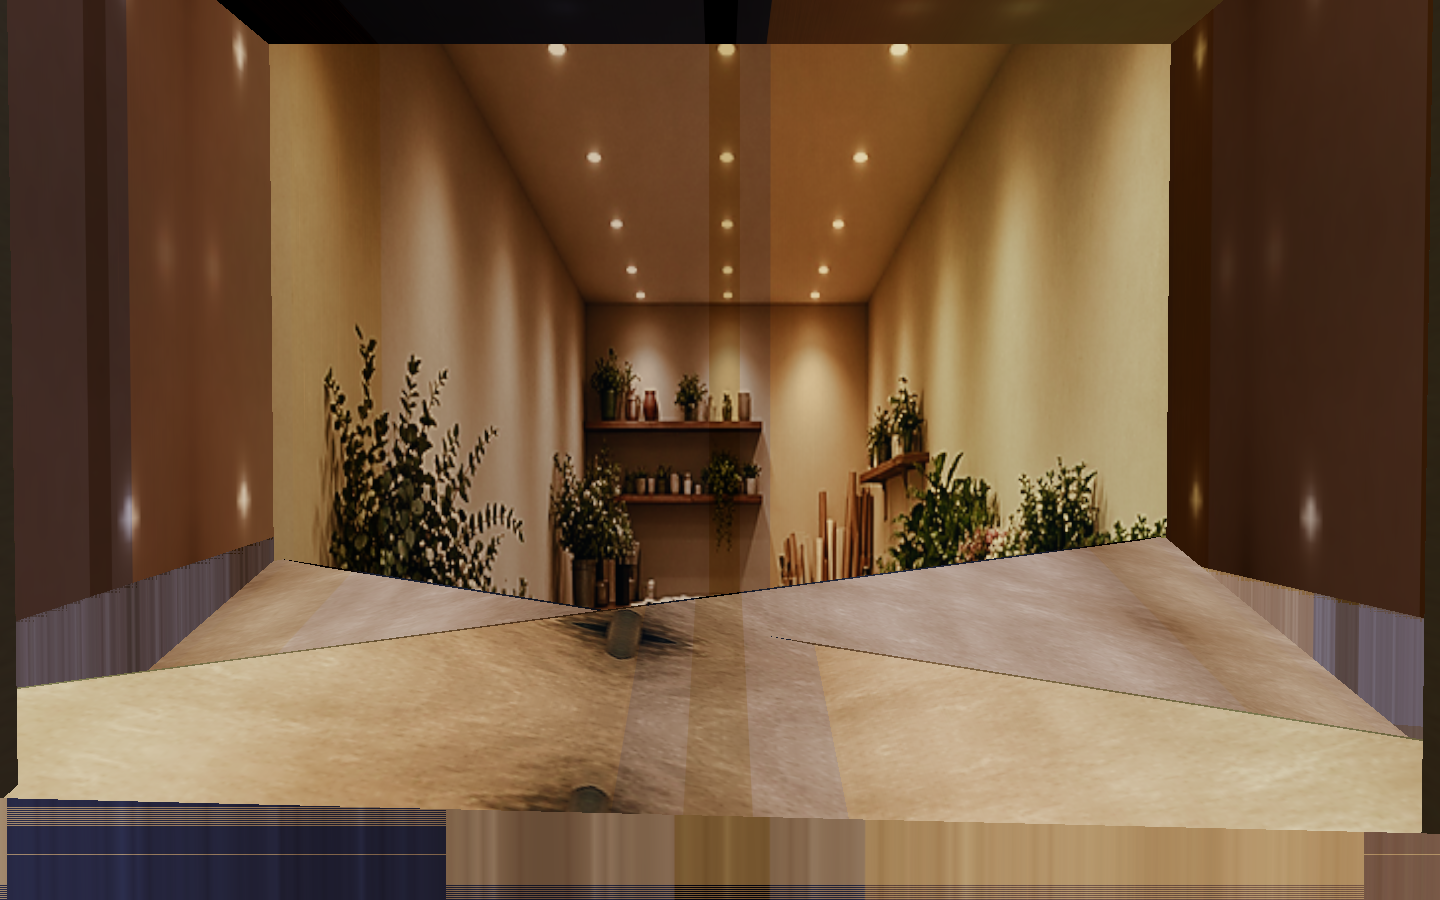
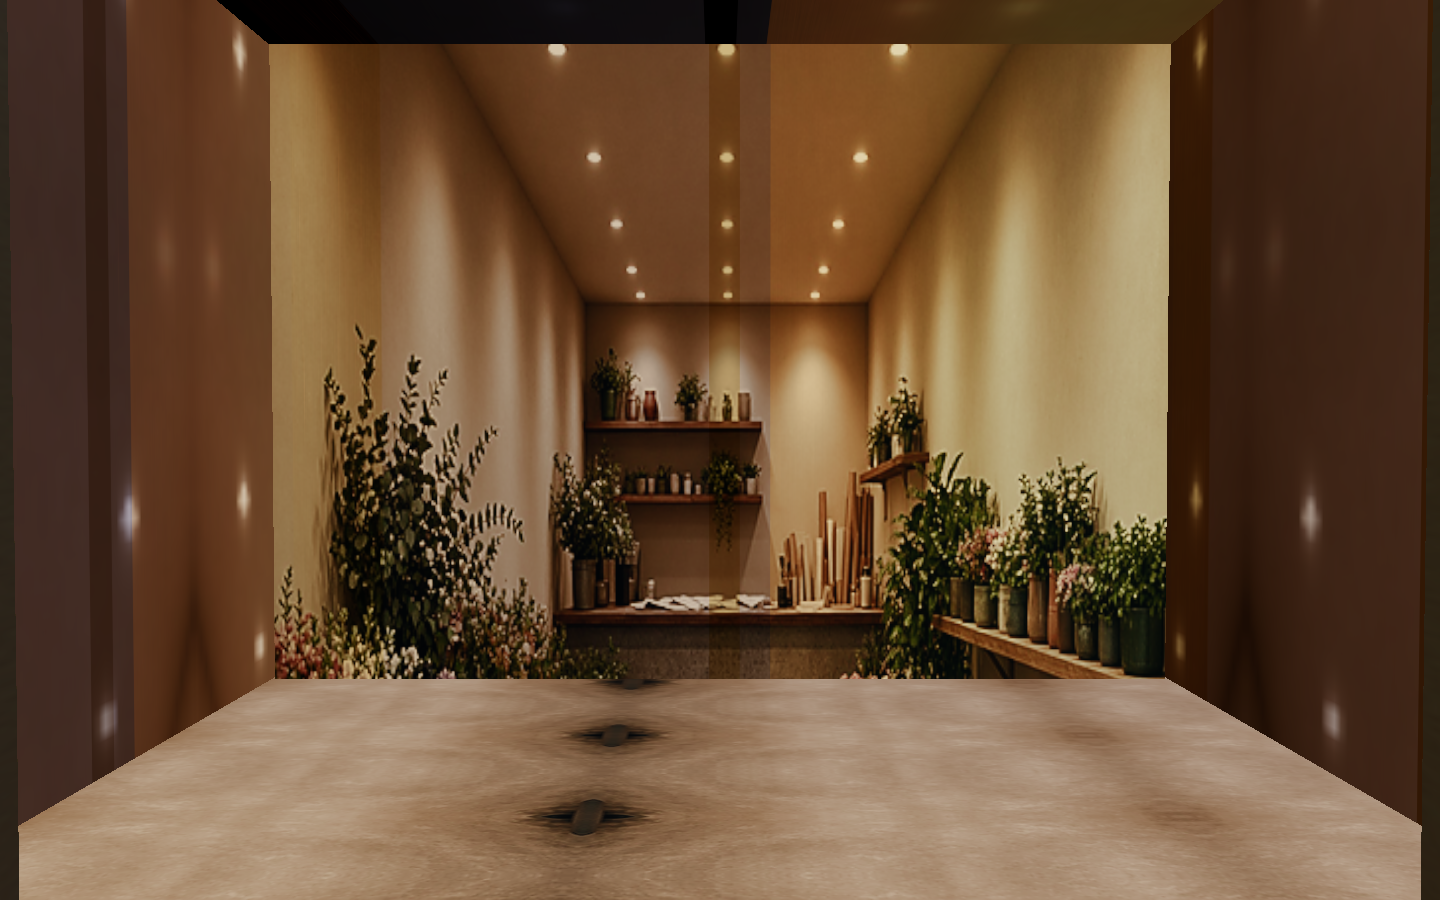
Cover the shop sill with one atlas floor quad.
The lot pad tread is y=0.085, so the earlier lift to 0.075 left sidewalk triangles z-fighting the tan floor. A single quad at y=0.11 now covers the cell through the façade.

Changed region(s): [[0.0, 0.5911, 1.0, 1.0]]

diff --git a/harbor.html b/harbor.html
@@ -2401,59 +2401,51 @@ function shopFenestraCell(halfAlong) {
   }
   return best;
 }
-// AtlasFloor is one glTF primitive. Its top sits on local y=0, which the
-// opening fit places under the promenade. Slide that primitive up and pull
-// its street edge out to the façade plane.
-function liftAtlasFloor(root, worldY, facadeLocalZ) {
-  root.updateMatrixWorld(true);
-  const s = root.scale.x || 1;
+// The baked floor box sits under the lot pad. A partial lift left the pad
+// (top y=0.085) on top of it, so the pad's two big triangles z-fought the
+// tan floor into a butterfly at the sill. Hide that box and lay one quad
+// of the same atlas floor above every outdoor tread, out to the façade.
+function seatShopFloor(root, worldX, faceZ, floorY, roomW, roomD, s) {
+  let src = null;
   root.traverse((obj) => {
-    if (!obj.isMesh || !obj.geometry) return;
+    if (!obj.isMesh) return;
     const mats = Array.isArray(obj.material) ? obj.material : [obj.material];
-    const geo = obj.geometry;
-    const pos = geo.getAttribute('position');
-    if (!pos) return;
-    const index = geo.getIndex();
-    const groups = geo.groups && geo.groups.length
-      ? geo.groups
-      : [{ start: 0, count: index ? index.count : pos.count, materialIndex: 0 }];
-    const ids = [];
-    for (const g of groups) {
-      const mat = mats[g.materialIndex] || mats[0];
-      if (!mat || mat.name !== 'AtlasFloor') continue;
-      const end = g.start + g.count;
-      if (index) {
-        for (let i = g.start; i < end; i++) ids.push(index.getX(i));
-      } else {
-        for (let i = g.start; i < end; i++) ids.push(i);
-      }
-    }
-    if (!ids.length) return;
-    let maxY = -1e9;
-    let maxZ = -1e9;
-    for (let k = 0; k < ids.length; k++) {
-      maxY = Math.max(maxY, pos.getY(ids[k]));
-      maxZ = Math.max(maxZ, pos.getZ(ids[k]));
-    }
-    const delta = (worldY - root.position.y) / s - maxY;
-    const lip = facadeLocalZ + 0.01;
-    for (let k = 0; k < ids.length; k++) {
-      const i = ids[k];
-      pos.setY(i, pos.getY(i) + delta);
-      if (pos.getZ(i) > maxZ - 0.025) pos.setZ(i, Math.max(pos.getZ(i), lip));
-    }
-    pos.needsUpdate = true;
-    geo.computeVertexNormals();
-    if (geo.boundingSphere) geo.computeBoundingSphere();
-    if (geo.boundingBox) geo.computeBoundingBox();
-    obj.frustumCulled = false;
-    mats.forEach((mat) => {
-      if (!mat || mat.name !== 'AtlasFloor') return;
-      mat.polygonOffset = true;
-      mat.polygonOffsetFactor = -2;
-      mat.polygonOffsetUnits = -2;
-    });
+    const hit = mats.find((m) => m && m.name === 'AtlasFloor');
+    if (!hit) return;
+    src = hit;
+    obj.visible = false;
   });
+  if (!src) return null;
+  const mat = src.clone();
+  mat.name = 'AtlasFloorCover';
+  mat.lightMap = null;
+  mat.aoMap = null;
+  mat.polygonOffset = true;
+  mat.polygonOffsetFactor = -4;
+  mat.polygonOffsetUnits = -4;
+  mat.depthWrite = true;
+  mat.side = THREE.DoubleSide;
+  const w = roomW * s + 0.08;
+  const d = roomD * s + 0.12;
+  const geo = new THREE.PlaneGeometry(w, d);
+  geo.rotateX(-Math.PI / 2);
+  const uv = geo.attributes.uv;
+  const tileU = 1.05 * s;
+  const tileV = 0.27 * s;
+  for (let i = 0; i < uv.count; i++) {
+    uv.setXY(i, (uv.getX(i) * w) / tileU, (uv.getY(i) * d) / tileV);
+  }
+  uv.needsUpdate = true;
+  const mesh = new THREE.Mesh(geo, mat);
+  mesh.name = 'AtlasFloorCover';
+  mesh.frustumCulled = false;
+  mesh.renderOrder = 4;
+  mesh.position.set(worldX, floorY, 0);
+  mesh.updateMatrixWorld(true);
+  const span = new THREE.Box3().setFromObject(mesh);
+  mesh.position.z += faceZ + 0.012 - span.max.z;
+  scene.add(mesh);
+  return mesh;
 }
 function mountQuayBakeBay() {
   const base = new URL('./07-advanced-assets/a01-bake/', import.meta.url);
@@ -2526,23 +2518,25 @@ function mountQuayBakeBay() {
     const worldX = box.x + uCenter;
     const faceZ = box.z + box.d * 0.5;
     root.position.set(worldX, holeCy - openCy * s, faceZ - 0.03);
-    // Lot pad tops out near y=0.058 and the quay slab sits at y=0.04.
-    // The baked floor is at local y=0, which lands below both and leaves
-    // outdoor concrete in the opening. Raise the atlas floor above that
-    // tread and run its lip to the façade so the interior meets the sill.
-    const floorY = 0.075;
-    liftAtlasFloor(root, floorY, (faceZ - root.position.z) / s);
+    // Lot-pad boxes are translated onto y=0, then scaled by 0.055 from a
+    // position of 0.03, so the tread is y=0.085 — above the old 0.075 lift.
+    // The cover sits clear of that, the quay slab (y=0.04), and the ground.
+    const floorY = 0.11;
     const roomW = meta.roomW || 2.4;
     const roomD = meta.roomD || 2.1;
+    const floorCover = seatShopFloor(root, worldX, faceZ, floorY, roomW, roomD, s);
+    const coverBox = floorCover ? new THREE.Box3().setFromObject(floorCover) : null;
     const bayMin = new THREE.Vector3(
-      worldX - roomW * s * 0.5 - 0.02,
-      0,
-      faceZ - roomD * s - 0.06
+      worldX - roomW * s * 0.5 - 0.06,
+      -1,
+      faceZ - roomD * s - 0.2
     );
+    // Through the façade plane, inside this cell only. Outdoor tread in
+    // front of the wall (larger z) stays.
     const bayMax = new THREE.Vector3(
-      worldX + roomW * s * 0.5 + 0.02,
-      1,
-      faceZ - 0.012
+      worldX + roomW * s * 0.5 + 0.06,
+      2,
+      faceZ + 0.004
     );
     for (const mat of [quayMat, sidewalkMat]) {
       mat.uniforms.uBayClip.value = 1;
@@ -2559,6 +2553,11 @@ function mountQuayBakeBay() {
       i: box.i, x: box.x, z: box.z, w: box.w, d: box.d, s,
       col: cell.col, center: uCenter, worldX, half: uHalf, bot: uBot, top: uTop,
       floorY, faceZ,
+      cover: coverBox ? {
+        minX: coverBox.min.x, maxX: coverBox.max.x,
+        minY: coverBox.min.y, maxY: coverBox.max.y,
+        minZ: coverBox.min.z, maxZ: coverBox.max.z,
+      } : null,
     };
     if (wantFrame && controls) {
       // Eye on this one cell, not the massing center (that center is the pier).

diff --git a/NOTES-ADVANCED-A01.md b/NOTES-ADVANCED-A01.md
@@ -80,7 +80,7 @@ Headless Blender 4.2 `Image.save()` writes a black PNG for generated float image
 
 The façade grid is shop | pier | shop. `faceAlong` is metres from the massing center, and cell 0 is `[0, 0.76)`, so x = 0 is the pier between two shops, not the middle of a bay. An earlier hole used `abs(faceAlong) <= uBakeHalf` and sat across that pier, reading as a third room between two atlas stickers. The hole is now one cell's glass only (shop mullion 0.04 / 0.045, plinth at 0.12 m), and the GLB opening is scaled and shifted onto that same rect. The neighboring shop pane and the pier stay on the atlas path.
 
-The GLB interior is `shop-atlas.png` cell 6 — the same ground-floor sheet as the neighboring shop stickers (`uShopAtlas`), not a parallel plaster set. Harbor and the drill keep `lightMapIntensity` at `1.55` on materials named `Atlas*` so that photograph stays in the sticker range. The bay floor is that cell's interior foreground. The opening fit used to leave that floor under the lot pad and the quay slab, so promenade concrete showed through the glass. Harbor lifts `AtlasFloor` above that tread and clips the quay and sidewalk shaders to the façade, so outdoor concrete stops at the threshold.
+The GLB interior is `shop-atlas.png` cell 6 — the same ground-floor sheet as the neighboring shop stickers (`uShopAtlas`), not a parallel plaster set. Harbor and the drill keep `lightMapIntensity` at `1.55` on materials named `Atlas*` so that photograph stays in the sticker range. The bay floor is that cell's interior foreground. The opening fit used to leave that floor under the lot pad. The pad is a box standing on y=0.03 with height 0.055, so its tread is y=0.085. A lift to 0.075 stayed under that tread and the pad's triangles z-fought the tan floor at the sill. Harbor hides the baked floor box, lays one atlas-floor quad at y=0.11 out to the façade, and clips the quay and sidewalk shaders through that plane inside the cell. Outdoor concrete stays in front of the wall.
 
 Street ground, deck plank atlas, prop wear, fleet, lamp props, water, pennants, and buoyancy/physics are untouched. If the GLB fails to load, `uBakeBay` stays `-1` and every pane stays on the atlas path.
 
